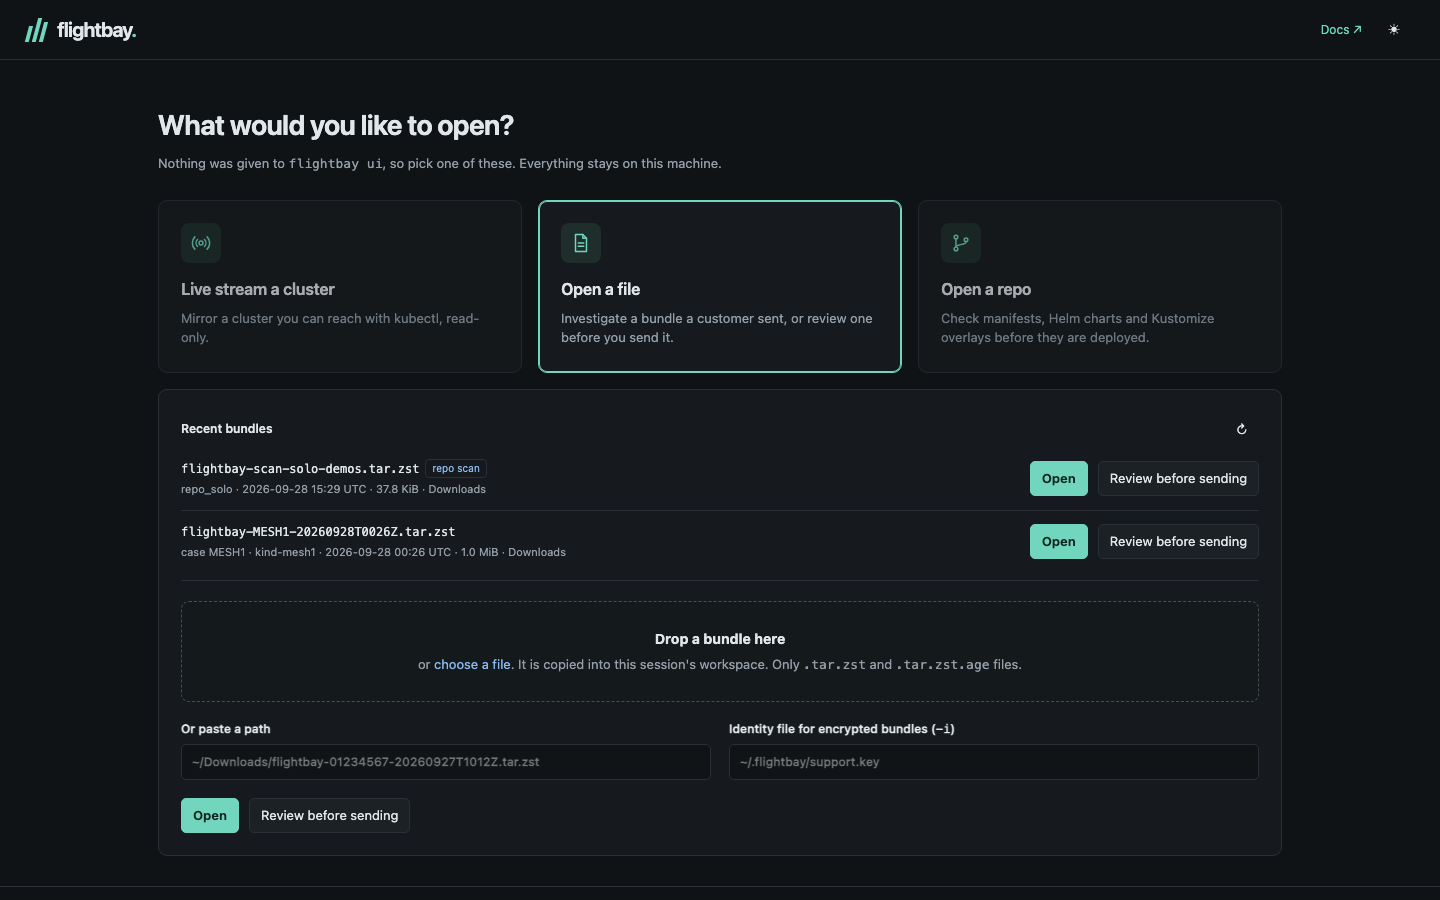
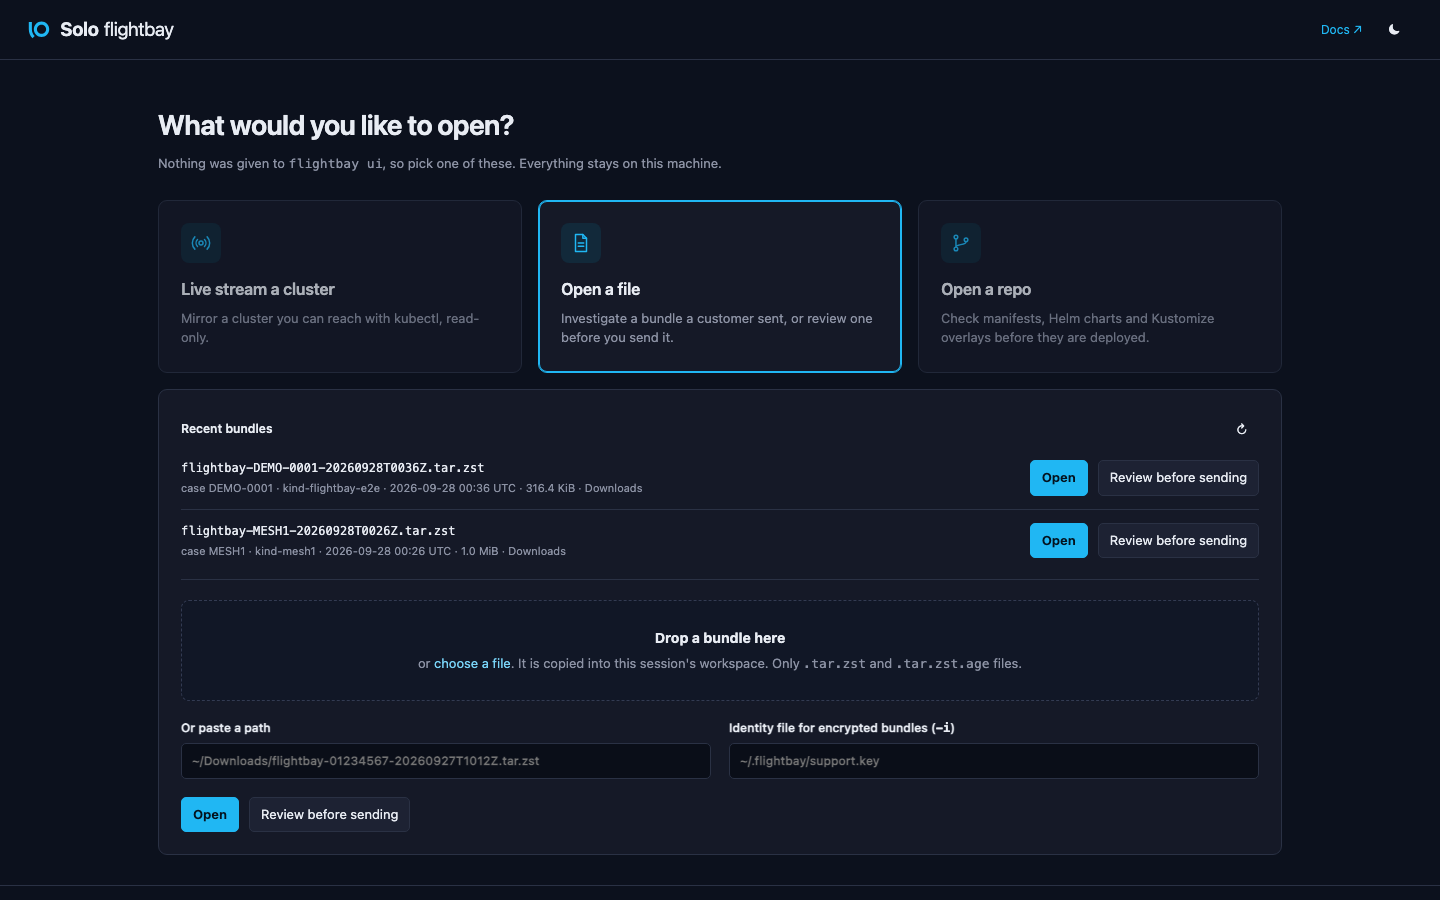
Solo flightbay branding on the start page; the screenshot tool also retakes start.png

diff --git a/web/app.css b/web/app.css
@@ -422,9 +422,9 @@ tr[data-nvrow]{cursor:pointer}
 .start-card{order:1;display:flex;flex-direction:column;align-items:flex-start;gap:8px;text-align:left;white-space:normal;padding:22px 22px 24px;border-radius:9px;background:var(--panel);border:1px solid var(--line);min-height:170px;transition:border-color .12s,transform .12s}
 .start-card[data-card=file]{order:3}.start-card[data-card=repo]{order:5}
 .start-card strong{font-size:16px;font-weight:620;letter-spacing:-.2px;color:var(--text)}.start-card .muted{font-size:13px;line-height:1.5}
-.start-card:hover{border-color:#4d6a61;background:var(--panel)}.start-card.active{border-color:var(--teal);background:var(--panel);box-shadow:0 0 0 1px var(--teal) inset}
+.start-card:hover{border-color:#1e5a7a;background:var(--panel)}.start-card.active{border-color:var(--teal);background:var(--panel);box-shadow:0 0 0 1px var(--teal) inset}
 .start-cards.has-open .start-card:not(.active){opacity:.72}.start-cards.has-open .start-card:not(.active):hover{opacity:1}
-.start-icon{width:40px;height:40px;border-radius:8px;display:grid;place-items:center;background:#1f2e2a;color:var(--teal);margin-bottom:6px}
+.start-icon{width:40px;height:40px;border-radius:8px;display:grid;place-items:center;background:#12293a;color:var(--teal);margin-bottom:6px}
 .start-icon svg{width:22px;height:22px;fill:none;stroke:currentColor;stroke-width:1.6;stroke-linecap:round;stroke-linejoin:round}
 .start-form{order:10;grid-column:1/-1;background:var(--panel);border:1px solid var(--line);border-radius:9px;padding:22px}
 .start-grid{display:grid;grid-template-columns:repeat(2,minmax(0,1fr));gap:14px 18px}
@@ -436,9 +436,9 @@ tr[data-nvrow]{cursor:pointer}
 .start-plan{margin-top:18px;border-top:1px solid var(--line);padding-top:18px}.start-plan .metadata{grid-template-columns:130px minmax(0,1fr)}
 .start-plan summary{cursor:pointer;color:var(--blue)}.start-types{font-size:11px;margin-top:6px;color:var(--muted);overflow-wrap:anywhere}
 .start-rbac-head{margin:18px 0 8px}.start-rbac{max-height:340px}
-.start-drop{border:1.5px dashed #46534e;border-radius:8px;padding:26px;display:grid;gap:6px;justify-items:center;text-align:center;margin-bottom:18px;cursor:pointer;background:#141a1c}
-.start-drop:hover,.start-drop.over{border-color:var(--teal);background:#172320}.start-drop strong{font-size:14px}
-.progress-bar{width:min(360px,80%);height:4px;background:#30383d;border-radius:4px;overflow:hidden;margin-top:6px}.progress-bar i{display:block;height:100%;width:0;background:var(--teal);transition:width .15s}
+.start-drop{border:1.5px dashed #333b52;border-radius:8px;padding:26px;display:grid;gap:6px;justify-items:center;text-align:center;margin-bottom:18px;cursor:pointer;background:#111726}
+.start-drop:hover,.start-drop.over{border-color:var(--teal);background:#0f2b3d}.start-drop strong{font-size:14px}
+.progress-bar{width:min(360px,80%);height:4px;background:#2a3144;border-radius:4px;overflow:hidden;margin-top:6px}.progress-bar i{display:block;height:100%;width:0;background:var(--teal);transition:width .15s}
 .start-recent{margin-bottom:20px;border-bottom:1px solid var(--line);padding-bottom:8px}.start-recent h3{font-size:12px}
 .start-file{display:flex;gap:14px;align-items:center;justify-content:space-between;padding:12px 0;border-bottom:1px solid var(--line);flex-wrap:wrap}.start-file:last-child{border-bottom:0}
 .start-file-main{display:grid;gap:3px;min-width:0;flex:1 1 280px}.start-file-main small{font-size:11px}.start-file-name{font-size:12px;overflow-wrap:anywhere}
@@ -452,10 +452,10 @@ tr[data-nvrow]{cursor:pointer}
 .start-opening-box{background:var(--panel);border:1px solid var(--line);border-radius:10px;padding:26px 30px;width:min(480px,92vw);display:grid;gap:12px}
 .start-opening-box .progress{width:100%}
 @media(max-width:900px){.start-top .brand-text{display:inline}.start-top{padding:0 16px}.start-foot{padding:12px 16px}.start-cards{grid-template-columns:1fr}.start-card{min-height:0}.start-form[data-for=live]{order:2}.start-form[data-for=file]{order:4}.start-form[data-for=repo]{order:6}.start-grid{grid-template-columns:1fr}.start-main{padding:28px 16px}}
-[data-theme=light] .start-card:hover{border-color:#a9cfc4;background:var(--panel)}
+[data-theme=light] .start-card:hover{border-color:#9cc6df;background:var(--panel)}
 [data-theme=light] .start-card.active{background:var(--panel);color:inherit;border-color:var(--teal)}
-[data-theme=light] .start-icon{background:#e3f3ee}
-[data-theme=light] .start-drop{background:#f9fbfb;border-color:#b9c6c1}
-[data-theme=light] .start-drop:hover,[data-theme=light] .start-drop.over{background:#eef8f5}
-[data-theme=light] .progress-bar{background:#d8dee2}
+[data-theme=light] .start-icon{background:#e9f8fe}
+[data-theme=light] .start-drop{background:#f9fafb;border-color:#b8c4d6}
+[data-theme=light] .start-drop:hover,[data-theme=light] .start-drop.over{background:#eef6fb}
+[data-theme=light] .progress-bar{background:#d0d5dd}
 [data-theme=light] .start-opening{background:#f5f6f7d9}

diff --git a/web/start.html b/web/start.html
@@ -3,7 +3,7 @@
 <head>
 <meta charset="utf-8">
 <meta name="viewport" content="width=device-width,initial-scale=1">
-<title>Flightbay · Start</title>
+<title>Solo flightbay · Start</title>
 <script>(function(){var t=localStorage.getItem('flightbay-theme')||(matchMedia('(prefers-color-scheme: light)').matches?'light':'dark');document.documentElement.dataset.theme=t;})();</script>
 <link rel="icon" href="/favicon.svg" type="image/svg+xml">
 <link rel="icon" href="/favicon-32.png" type="image/png" sizes="32x32">
@@ -12,7 +12,7 @@
 </head>
 <body class="start-page">
 <header class="start-top">
-  <a href="/" class="brand" aria-label="Flightbay start page"><span class="brand-mark" aria-hidden="true"><i></i><i></i><i></i></span><span class="brand-text">flightbay<span class="green">.</span></span></a>
+  <a href="/" class="brand" aria-label="Solo flightbay start page"><svg class="brand-mark" viewBox="0 0 27 32" aria-hidden="true"><path fill="currentColor" fill-rule="evenodd" clip-rule="evenodd" d="M9.91404 21.8278C11.6896 23.6033 14.0969 24.6021 16.6078 24.605C19.1197 24.6036 21.5284 23.6054 23.3051 21.8298C25.0818 20.0541 26.0814 17.646 26.0843 15.134C26.0814 12.6221 25.0818 10.214 23.3051 8.43834C21.5284 6.66266 19.1197 5.66454 16.6078 5.66309C14.0969 5.66599 11.6896 6.66476 9.91404 8.44028C8.13852 10.2158 7.13976 12.6231 7.13685 15.134C7.13976 17.645 8.13852 20.0523 9.91404 21.8278ZM12.6324 11.1583C13.6868 10.1037 15.1165 9.5105 16.6078 9.5088V9.50972C18.0998 9.5102 19.5307 10.1027 20.5862 11.1572C21.6418 12.2118 22.2357 13.642 22.2376 15.134C22.2359 16.6261 21.6421 18.0566 20.5865 19.1111C19.5309 20.1657 18.0999 20.7581 16.6078 20.7584C15.1167 20.7567 13.6871 20.1636 12.6327 19.1092C11.5783 18.0548 10.9852 16.6252 10.9835 15.134C10.9849 13.6427 11.5779 12.2129 12.6324 11.1583ZM5.64927 19.6716C6.24653 21.1097 7.12205 22.4156 8.22553 23.5144L5.52831 26.208C4.07097 24.7557 2.91491 23.0298 2.12653 21.1294C1.33815 19.2291 0.932998 17.1916 0.934329 15.1342L0.934329 6.0397H4.74524V15.1342C4.74479 16.6915 5.05201 18.2334 5.64927 19.6716Z"/></svg><span class="brand-text"><b>Solo</b> flightbay</span></a>
   <span class="spacer"></span>
   <a href="/docs/getting-started/" target="_blank" rel="noopener" class="start-docs">Docs ↗</a>
   <button class="ghost" id="theme-toggle" title="Light or dark" aria-label="Switch between light and dark">◐</button>

diff --git a/scripts/screenshots/main.go b/scripts/screenshots/main.go
@@ -46,6 +46,7 @@ type shot struct {
 }
 
 var shots = []shot{
+	{name: "start", desk: "start", hash: "", theme: "dark", setup: `document.querySelector('[data-card=file]').click()`},
 	{name: "overview", desk: "sample", hash: "overview", theme: "dark"},
 	{name: "search", desk: "sample", hash: "search", theme: "dark"},
 	{name: "logs", desk: "sample", hash: "logs", theme: "dark"},
@@ -177,6 +178,28 @@ func run(deskBin, chromeBin, sample, mesh, out, only string) error {
 			return err
 		}
 	}
+	if needed["start"] {
+		// The start page lists bundles in its directory and ~/Downloads; give
+		// it a home of its own so only these two appear.
+		home := filepath.Join(tmp, "start-home")
+		dl := filepath.Join(home, "Downloads")
+		if err := os.MkdirAll(dl, 0o755); err != nil {
+			return err
+		}
+		if err := copyFile(sample, filepath.Join(dl, "flightbay-DEMO-0001-20260928T0036Z.tar.zst")); err != nil {
+			return err
+		}
+		if mesh != "" {
+			if err := copyFile(mesh, filepath.Join(dl, filepath.Base(mesh))); err != nil {
+				return err
+			}
+		}
+		d, err := startDesk(deskBin, filepath.Join(tmp, "start"), "", []string{"HOME=" + home})
+		if err != nil {
+			return fmt.Errorf("start page: %w", err)
+		}
+		desks["start"] = d
+	}
 	if needed["mesh"] {
 		if err := start("mesh", mesh, []string{"FLIGHTBAY_ENTERPRISE=1"}); err != nil {
 			return err
@@ -234,10 +257,19 @@ func startDesk(bin, home, bundle string, env []string, args ...string) (*deskPro
 	if err != nil {
 		return nil, err
 	}
-	// Run from the bundle's directory so the UI shows file names, not local paths.
+	// Run from the bundle's directory so the UI shows file names, not local
+	// paths. No bundle means the start page, which is ready once it listens.
 	argv := append([]string{"open", filepath.Base(bundle), "--listen", fmt.Sprintf("127.0.0.1:%d", port), "--no-browser"}, args...)
+	dir := filepath.Dir(bundle)
+	if bundle == "" {
+		argv = append([]string{"start", "--listen", fmt.Sprintf("127.0.0.1:%d", port), "--no-browser"}, args...)
+		dir = home
+		if err := os.MkdirAll(dir, 0o700); err != nil {
+			return nil, err
+		}
+	}
 	cmd := exec.Command(bin, argv...)
-	cmd.Dir = filepath.Dir(bundle)
+	cmd.Dir = dir
 	cmd.Env = append(append(os.Environ(), "FLIGHTBAY_HOME="+home), env...)
 	stderr, err := cmd.StderrPipe()
 	if err != nil {
@@ -255,6 +287,10 @@ func startDesk(bin, home, bundle string, env []string, args ...string) (*deskPro
 			line := sc.Text()
 			if m := uiLine.FindStringSubmatch(line); m != nil {
 				d.base, d.token = m[1], m[2]
+				if bundle == "" && !sent {
+					ready <- nil
+					sent = true
+				}
 			}
 			if !sent && strings.HasPrefix(line, "Import complete") {
 				ready <- nil
@@ -474,7 +510,7 @@ func (b *browser) capture(d *deskProc, s shot) ([]byte, error) {
 	if err := b.call(ss, "Page.navigate", map[string]any{"url": d.base + "/#" + s.hash}, nil); err != nil {
 		return nil, err
 	}
-	if err := b.waitFor(ss, `document.readyState === 'complete' && !!document.querySelector('#main .page-head, #main .nv-frame, #main .nv')`); err != nil {
+	if err := b.waitFor(ss, `document.readyState === 'complete' && !!document.querySelector('#main .page-head, #main .nv-frame, #main .nv, #cards')`); err != nil {
 		return nil, err
 	}
 	time.Sleep(1500 * time.Millisecond)
